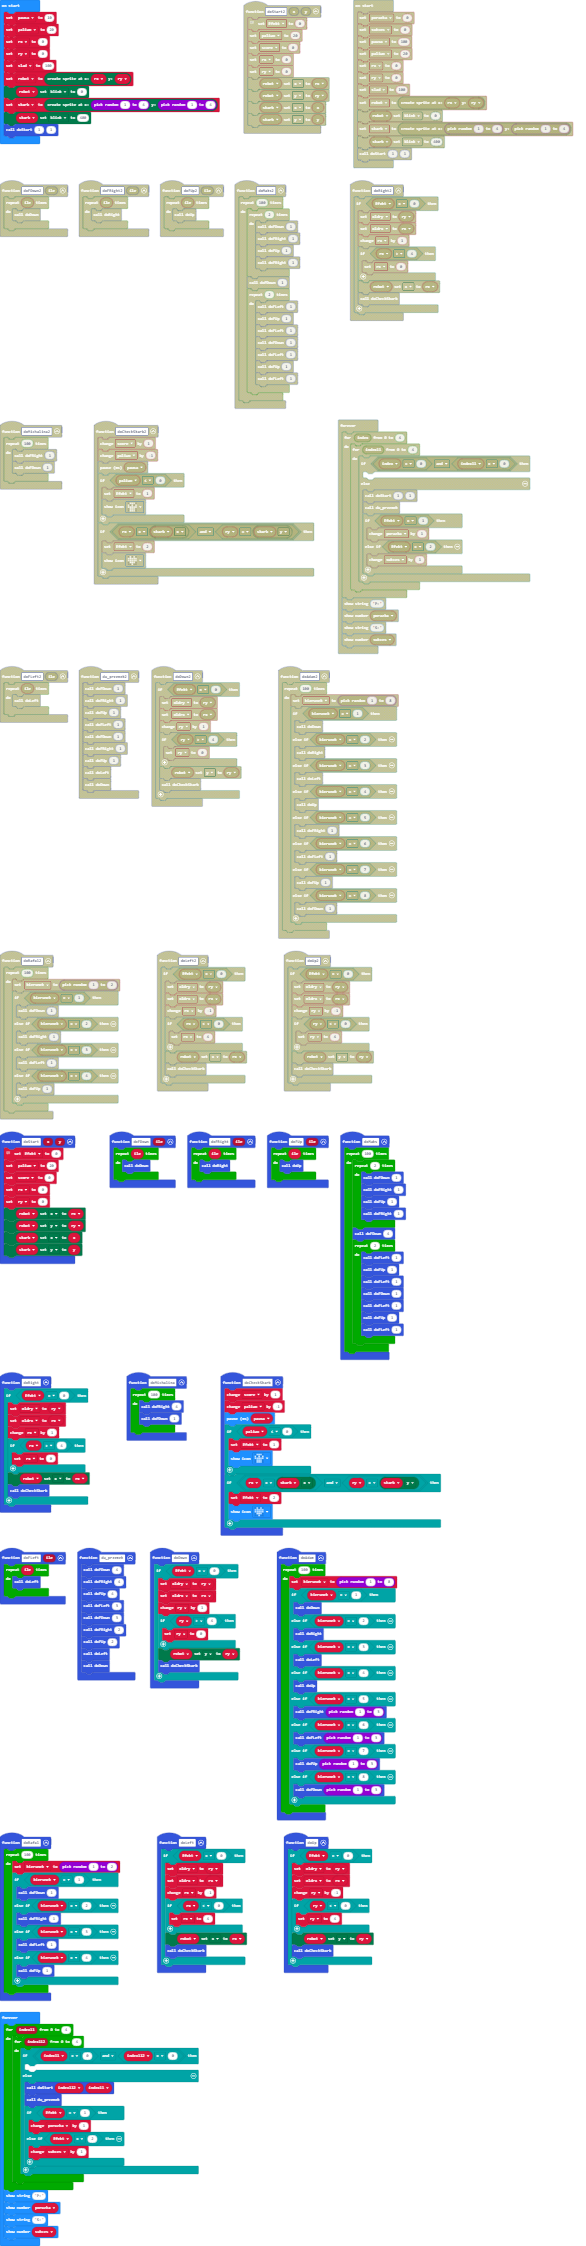
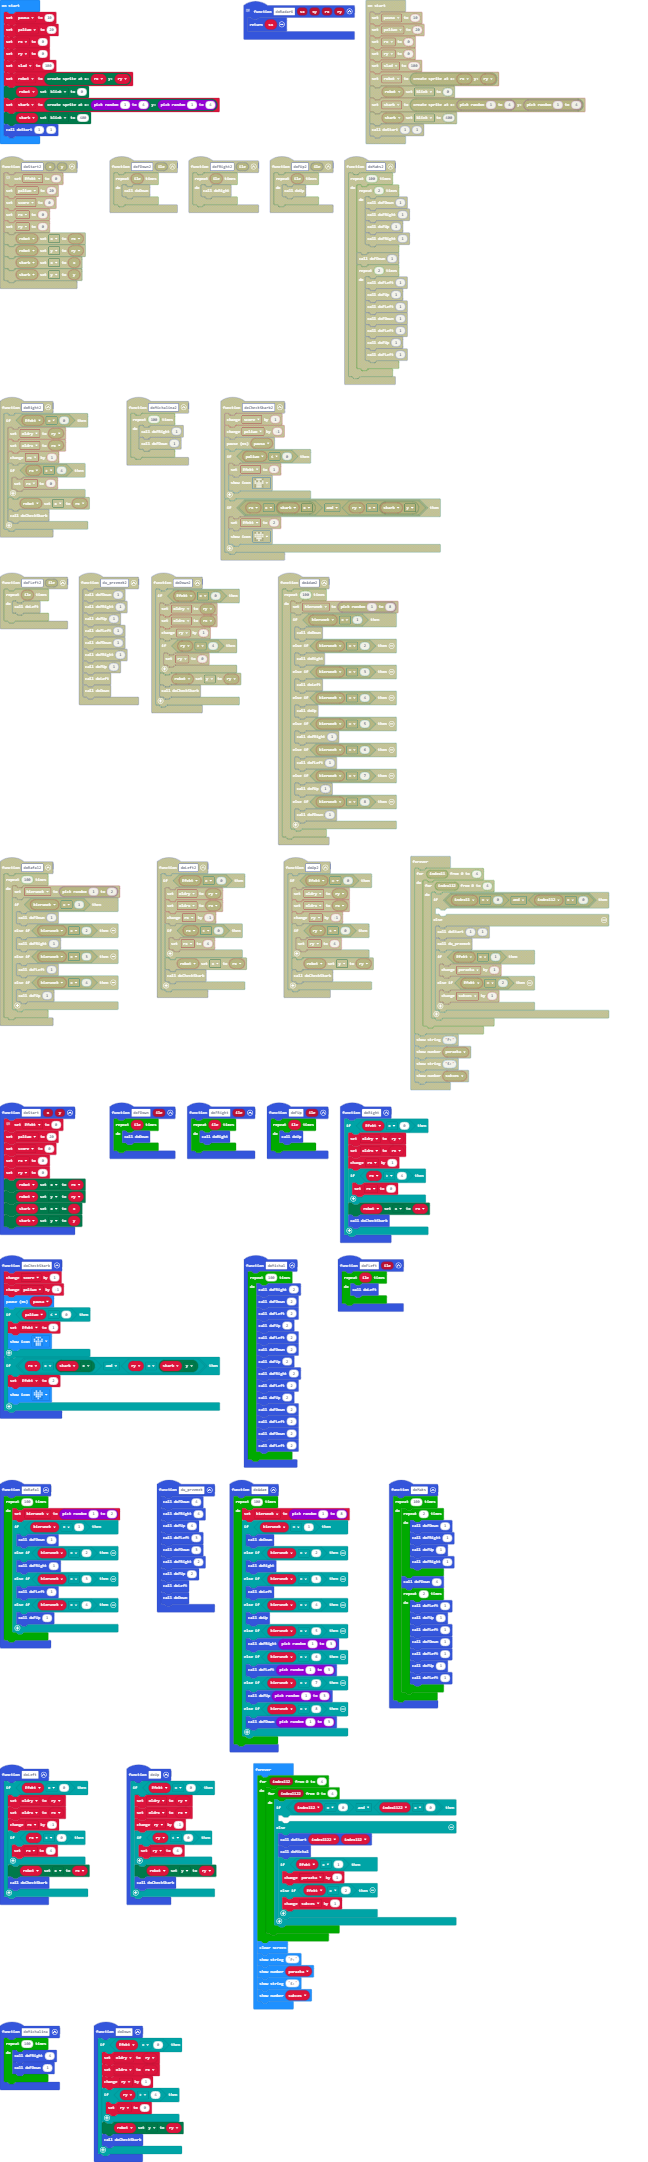
Update main.blocks, main.ts

diff --git a/main.ts b/main.ts
@@ -27,6 +27,42 @@ function doFUp (ile: number) {
         doUp()
     }
 }
+// Jak działa funkcja radar:
+// "sx=rx"	"sy>ry"	5
+// "sx=rx"	"sy<ry"	1
+// "sy=ry"	"sx<rx"	7
+// "sy=ry"	"sx>ry"	3
+// "sy<ry"	"sx>rx"	2
+// "sy>ry"	"sx>rx"	4
+// "sy>ry"	"sx<rx"	6
+// "sy<ry"	"sx<rx"	8
+function doRadarX (sx: number, sy: number, rx: number, ry: number) {
+    if (sx==rx && sy>ry) {
+        return 5
+    }
+    if (sx==rx && sy<ry) {
+        return 1
+    }
+    if (sy==ry && sx<rx) {
+        return 7
+    }
+    if (sy==ry && sx>rx) {
+        return 3
+    }
+    if (sy<ry && sx>rx) {
+        return 2
+    }
+    if (sy>ry && sx>rx) {
+        return 4
+    }
+    if (sy>ry && sx<rx) {
+        return 6
+    }
+    if (sy<ry && sx<rx) {
+        return 8
+    }
+return 0
+}
 function doMaks () {
     for (let index = 0; index < 100; index++) {
         for (let index = 0; index < 2; index++) {
@@ -154,6 +190,24 @@ function doLeft () {
         doCheckSkarb()
     }
 }
+function doMichal () {
+    for (let index = 0; index < 100; index++) {
+        doFRight(2)
+        doFDown(2)
+        doFLeft(2)
+        doFUp(2)
+        doFLeft(2)
+        doFDown(2)
+        doFUp(2)
+        doFRight(2)
+        doFLeft(2)
+        doFUp(2)
+        doFDown(2)
+        doFLeft(2)
+        doFDown(2)
+        doFLeft(2)
+    }
+}
 function doUp () {
     if (Efekt == 0) {
         oldry = ry
@@ -190,13 +244,13 @@ skarb = game.createSprite(randint(1, 4), randint(1, 4))
 skarb.set(LedSpriteProperty.Blink, 400)
 doStart(1, 1)
 basic.forever(function () {
-    for (let index11 = 0; index11 <= 4; index11++) {
-        for (let index112 = 0; index112 <= 4; index112++) {
-            if (index11 == 0 && index112 == 0) {
+    for (let index112 = 0; index112 <= 4; index112++) {
+        for (let index1122 = 0; index1122 <= 4; index1122++) {
+            if (index112 == 0 && index1122 == 0) {
             	
             } else {
-                doStart(index112, index11)
-                du_przemek()
+                doStart(index1122, index112)
+                doMichal()
                 if (Efekt == 1) {
                     porazka += 1
                 } else if (Efekt == 2) {
